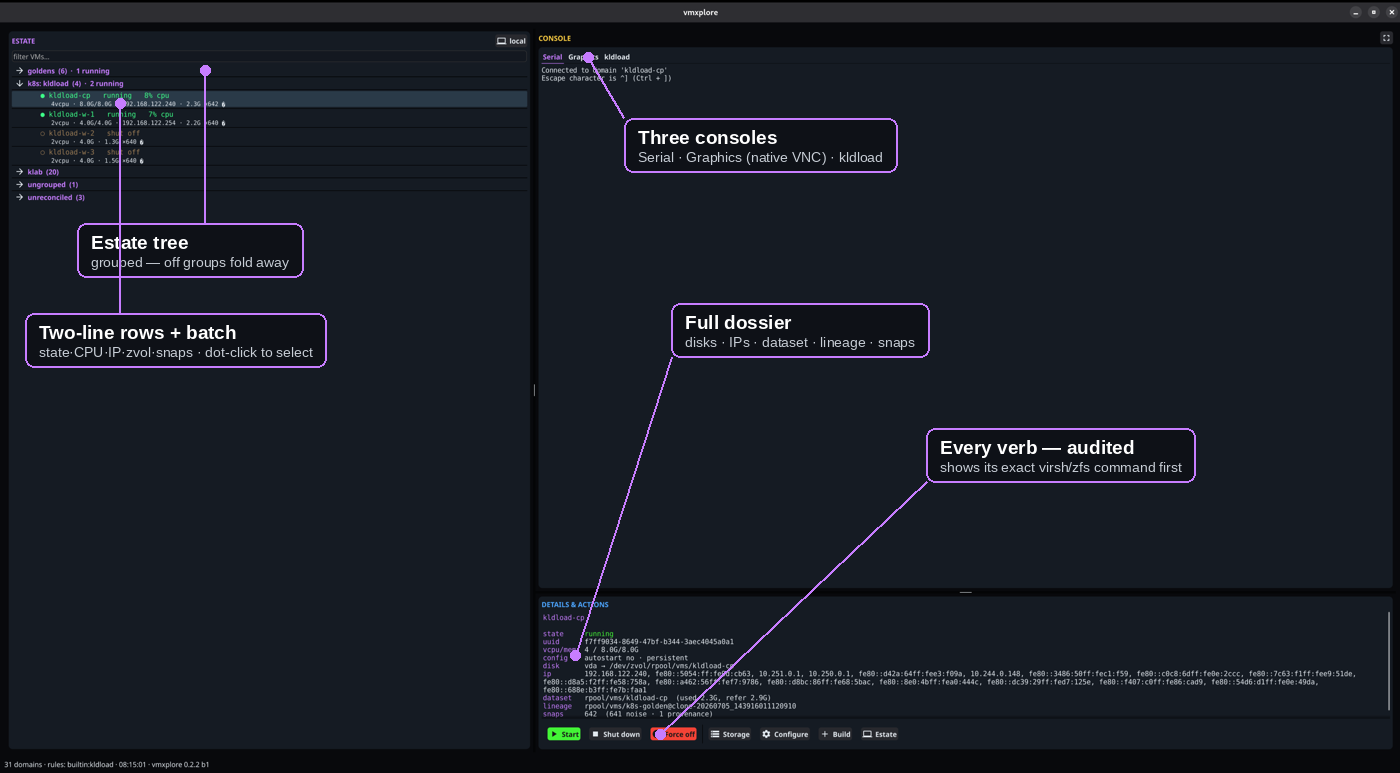
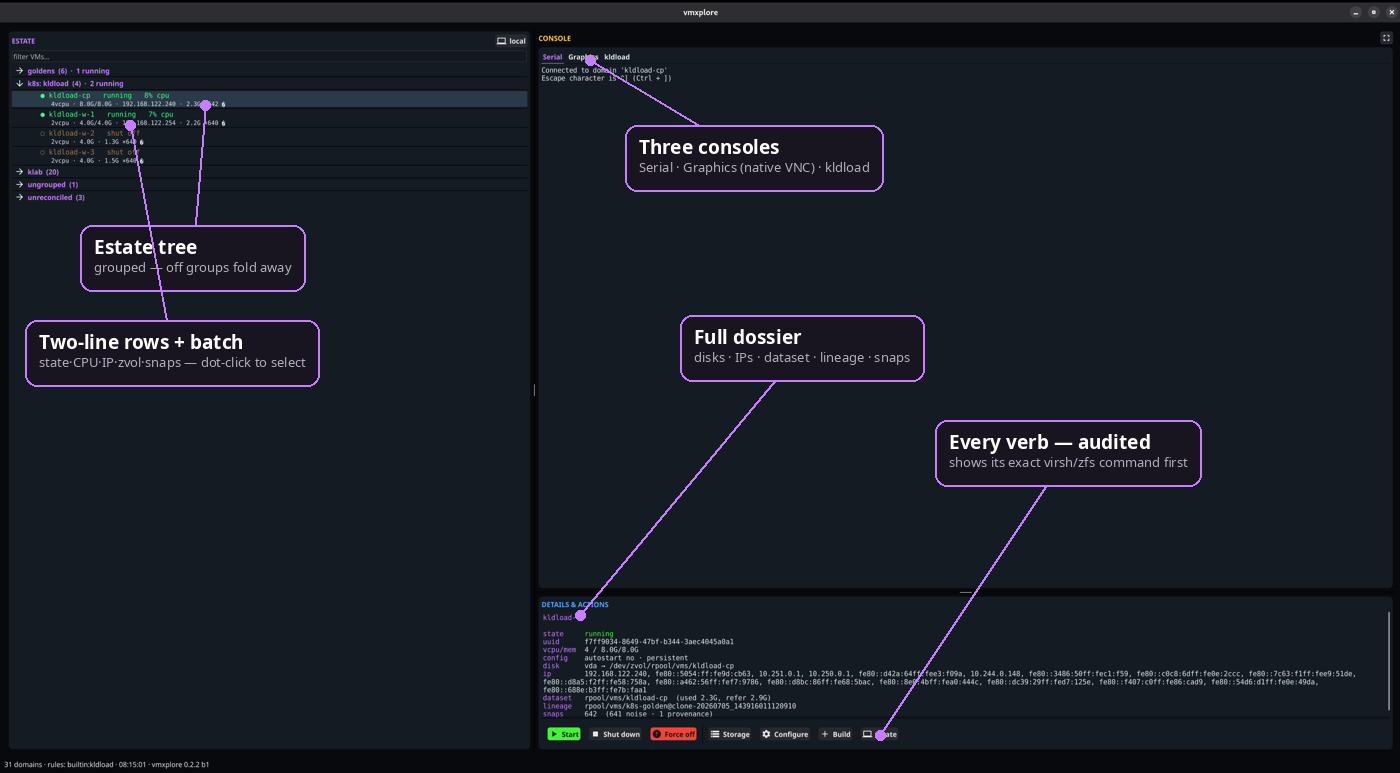
docs: the README callouts are generated, not hand-drawn
Every screenshot in the README predates tonight — the violet icon, the
sectioned kldload tab, nine cloud images and the desktop selector all
landed in one evening and invalidated the lot. The annotated one carries
hand-placed callout boxes, so retaking it meant redrawing them by hand
again, in a style that drifts every time.

The callouts are data now: box position, anchor point, title, subtitle.
A new screenshot costs one command and looks identical to the last one.
Definitions for estate, new-vm, ez-fleet and kldload-tools are in, with
the new-vm and ez-fleet ones pointing at the desktop selector, which is
the feature worth pointing at.

Two things learned writing it. The first version looked for DejaVu in four
well-known directories, found none on Fedora, and silently fell back to
Pillow bitmap default — thin, size-ignoring, and unable to render an
em-dash, so the result shipped looking WORSE than the hand-made original
it replaced. It goes through fc-match now and exits rather than draw with
the fallback. And it overwrote the existing asset before I had looked at
the output; restored from git, which is the only reason that mistake cost
nothing.

Coordinates are pixels, not fractions, on purpose: a callout points at a
widget and widgets do not move proportionally when a window resizes.

diff --git a/assets/annotate.py b/assets/annotate.py
@@ -1,0 +1,172 @@
+#!/usr/bin/env python3
+"""Draw the README's callout overlays onto a raw screenshot.
+
+What it does, in order:
+  1. Reads a raw screenshot and a list of callouts.
+  2. Draws a leader line from each callout box to the point it describes,
+     with a dot at the anchor.
+  3. Draws the rounded box, its title, and its subtitle.
+  4. Writes the annotated copy beside the original.
+
+WHY this exists as a script rather than a one-off in an image editor: the
+annotations have been redrawn by hand every time the UI moved, and the UI
+moves constantly — the violet icon, the sectioned kldload tab and the
+desktop selector all landed in one evening, invalidating every shot. Hand
+placement also drifts in style between sessions. Encoding the callouts as
+data means a new screenshot costs one command and looks identical to the
+last one.
+
+Inputs:  a PNG, and a SHOTS entry naming its callouts in image coordinates.
+Outputs: <name>-annotated.png beside it.
+
+Usage:
+    python3 assets/annotate.py estate            # one shot
+    python3 assets/annotate.py --list            # what is defined
+
+Notes: coordinates are in PIXELS of the source image, origin top-left. They
+are deliberately not fractions — a callout must point at a widget, and
+widgets do not move proportionally when a window is resized. Re-take shots
+at the same size (1400x773 historically) or update the numbers.
+"""
+
+from __future__ import annotations
+
+import subprocess
+import sys
+from pathlib import Path
+
+try:
+    from PIL import Image, ImageDraw, ImageFont
+except ImportError:  # pragma: no cover - dependency is the operator's
+    sys.exit("needs Pillow:  pip install --user Pillow")
+
+HERE = Path(__file__).resolve().parent
+SHOTS_DIR = HERE / "screenshots"
+
+# The house style, matched to the existing annotated shot.
+VIOLET = (199, 125, 255)          # box border, leader line, anchor dot
+BOX_FILL = (24, 20, 32)           # near-black, so it reads on a dark UI
+TITLE = (255, 255, 255)
+SUBTITLE = (176, 176, 190)
+LINE_W = 2
+RADIUS = 12
+PAD = 14
+
+
+def _font(size: int, bold: bool = False):
+    """Resolve a real scalable font through fontconfig.
+
+    WHY not hardcoded paths: the first version of this looked for DejaVu in
+    four well-known directories, found none of them on a Fedora box, and
+    silently fell back to Pillow's bitmap default — which renders thin, ignores
+    the requested size, and drops any glyph outside ASCII. The em-dashes and
+    middots in the callouts came out as empty boxes and the result shipped
+    looking worse than the hand-made original it replaced.
+
+    fc-match answers "what is the actual file for this family" on any system
+    with fontconfig, which is every system that has fonts at all.
+    """
+    pattern = "sans-serif:bold" if bold else "sans-serif"
+    try:
+        path = subprocess.run(["fc-match", "-f", "%{file}", pattern],
+                              capture_output=True, text=True,
+                              timeout=10).stdout.strip()
+        if path and Path(path).exists():
+            return ImageFont.truetype(path, size)
+    except (OSError, subprocess.SubprocessError):
+        pass
+    # Refuse rather than draw something worse than what it replaces.
+    sys.exit("no scalable font found (install fontconfig + any TTF); "
+             "refusing to render with the bitmap fallback")
+
+
+# ─── the callouts ────────────────────────────────────────────────────────
+#
+# Each entry: (box_x, box_y, anchor_x, anchor_y, title, subtitle).
+# box_* is the callout's top-left; anchor_* is the pixel it points at.
+SHOTS: dict[str, list[tuple]] = {
+    "estate": [
+        (80, 225, 205, 105, "Estate tree",
+         "grouped — off groups fold away"),
+        (25, 320, 130, 125, "Two-line rows + batch",
+         "state·CPU·IP·zvol·snaps — dot-click to select"),
+        (625, 125, 590, 60, "Three consoles",
+         "Serial · Graphics (native VNC) · kldload"),
+        (680, 315, 580, 615, "Full dossier",
+         "disks · IPs · dataset · lineage · snaps"),
+        (935, 420, 880, 735, "Every verb — audited",
+         "shows its exact virsh/zfs command first"),
+    ],
+    # New VM now carries the desktop selector, which is the thing worth
+    # pointing at — it is the feature nothing else in this space has.
+    "new-vm": [
+        (520, 150, 300, 150, "Nine cloud images",
+         "each verified against its vendor's checksum"),
+        (520, 260, 300, 250, "…or a desktop",
+         "GNOME · KDE · XFCE, installed on first boot"),
+        (520, 400, 300, 430, "First-boot script",
+         "runs as root — build your own appliance"),
+    ],
+    "ez-fleet": [
+        (520, 150, 300, 150, "One golden, N clones",
+         "zero-copy ZFS clones, blocks shared"),
+        (520, 280, 300, 260, "A desktop costs one install",
+         "the golden pays; every clone inherits it"),
+    ],
+    "kldload-tools": [
+        (560, 120, 380, 120, "Sectioned, not a wall",
+         "six groups — machines, images, storage, cluster…"),
+        (560, 300, 380, 320, "Colour says what it does",
+         "green builds · blue storage · gold reads · red destroys"),
+    ],
+}
+
+
+def annotate(name: str) -> Path:
+    src = SHOTS_DIR / f"{name}.png"
+    if not src.exists():
+        sys.exit(f"no such screenshot: {src}")
+    if name not in SHOTS:
+        sys.exit(f"no callouts defined for {name!r} — add them to SHOTS")
+
+    im = Image.open(src).convert("RGB")
+    d = ImageDraw.Draw(im)
+    f_title = _font(19, bold=True)
+    f_sub = _font(13)
+
+    for bx, by, ax, ay, title, sub in SHOTS[name]:
+        tw = d.textlength(title, font=f_title)
+        sw = d.textlength(sub, font=f_sub)
+        w = int(max(tw, sw)) + PAD * 2
+        h = 52 + PAD
+
+        # Leader first, so the box paints over its own end and the line
+        # never appears to pierce the text.
+        d.line((ax, ay, bx + w // 2, by + h // 2), fill=VIOLET, width=LINE_W)
+        d.ellipse((ax - 5, ay - 5, ax + 5, ay + 5), fill=VIOLET)
+
+        d.rounded_rectangle((bx, by, bx + w, by + h), radius=RADIUS,
+                            fill=BOX_FILL, outline=VIOLET, width=LINE_W)
+        d.text((bx + PAD, by + 8), title, font=f_title, fill=TITLE)
+        d.text((bx + PAD, by + 33), sub, font=f_sub, fill=SUBTITLE)
+
+    out = SHOTS_DIR / f"{name}-annotated.png"
+    im.save(out)
+    return out
+
+
+def main() -> None:
+    args = sys.argv[1:]
+    if not args or args[0] in ("-h", "--help"):
+        sys.exit(__doc__)
+    if args[0] == "--list":
+        for k, v in SHOTS.items():
+            missing = "" if (SHOTS_DIR / f"{k}.png").exists() else "  (no source png)"
+            print(f"  {k:16s} {len(v)} callouts{missing}")
+        return
+    for name in args:
+        print(f"  wrote {annotate(name).relative_to(HERE.parent)}")
+
+
+if __name__ == "__main__":
+    main()
